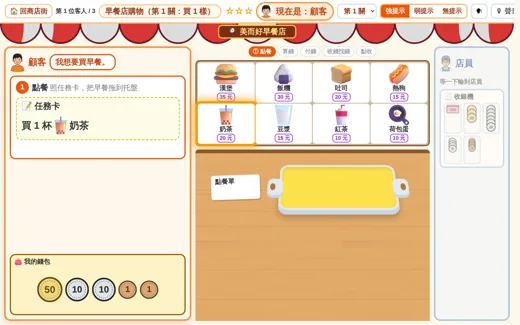
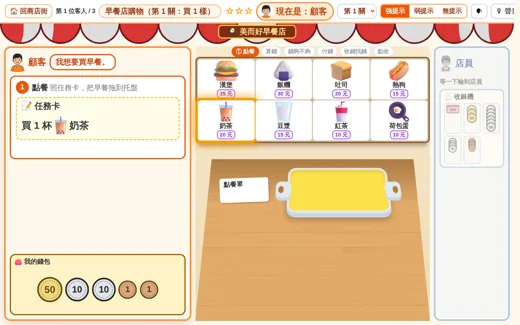
櫃台牆面＋梯形桌面：模擬圖、實作截圖、文件、重產遊戲縮圖
Claude-Session: https://claude.ai/code/session_011NSASW6U1vESdnEEx3UPEG

Changed region(s): [[0.3692, 0.1231, 0.8308, 0.9538]]

diff --git a/docs/入店動畫改版_規劃.md b/docs/入店動畫改版_規劃.md
@@ -80,3 +80,5 @@
 - 截圖（1366×768、DPR 2）：`docs/mock-shop-enter/v4_1_customer.png`（顧客走到定點）、`v4_2_clerk_bow.png`（店員鞠躬＋對話框）、`v4_3_after.png`（縮回後）。
 - **2026-11-14 使用者要求店員縮小：CH 220→160**（`CH=min(160, 遊戲區高×.23)`；1024×768、1280×800、1366×768 實測外框都是 122×160，其餘不變；截圖 `docs/mock-shop-enter/v5_clerk_small.png`）。
 - 已知：店員站在櫃台上緣、會暫時蓋住右上角第 4 個菜單格（動畫約 3 秒，期間擋操作，結束後恢復）。
+
+- **2026-11-14 櫃台改成牆面＋梯形桌面**（`docs/mock-shop-counter/`）：桌面往下移 40px、露出牆；店員照舊以 `.counter` 上緣（梯形頂邊）為下緣站出來，不用改動畫程式。

diff --git a/docs/早餐店購物遊戲_規劃.md b/docs/早餐店購物遊戲_規劃.md
@@ -114,3 +114,5 @@
 | 8 | 上架 | 更新 `catalog.json`、`spec.json`、縮圖、文件；前後端合併回 `main` |
 
 之後再做：老師設定頁（自訂菜單、價格、選關卡與回合數），銷售用。
+
+- **櫃台牆面＋梯形桌面**（使用者 2026-11-14 選 C 牆面＋A 桌面）：菜單和桌面之間露出一段牆，桌面畫成梯形立體平面，店員從牆前站出來；模擬圖與實作截圖 `docs/mock-shop-counter/`，實作見後端 `game-shop.md`「櫃台牆面＋梯形桌面」。

diff --git a/docs/麵包店購物遊戲_規劃.md b/docs/麵包店購物遊戲_規劃.md
@@ -50,3 +50,5 @@
 
 - 第 7 關延伸：單買 vs 一袋（乘法比價，使用者這次沒選）、最多買幾個（有餘數）。
 - 老師設定頁（自訂菜單、價錢、關卡）。
+
+- **櫃台牆面＋梯形桌面**（使用者 2026-11-14 選 C 牆面＋A 桌面，與早餐店同一份程式）：粉色梯形桌面、後緣加深；模擬圖與實作截圖 `docs/mock-shop-counter/`。
